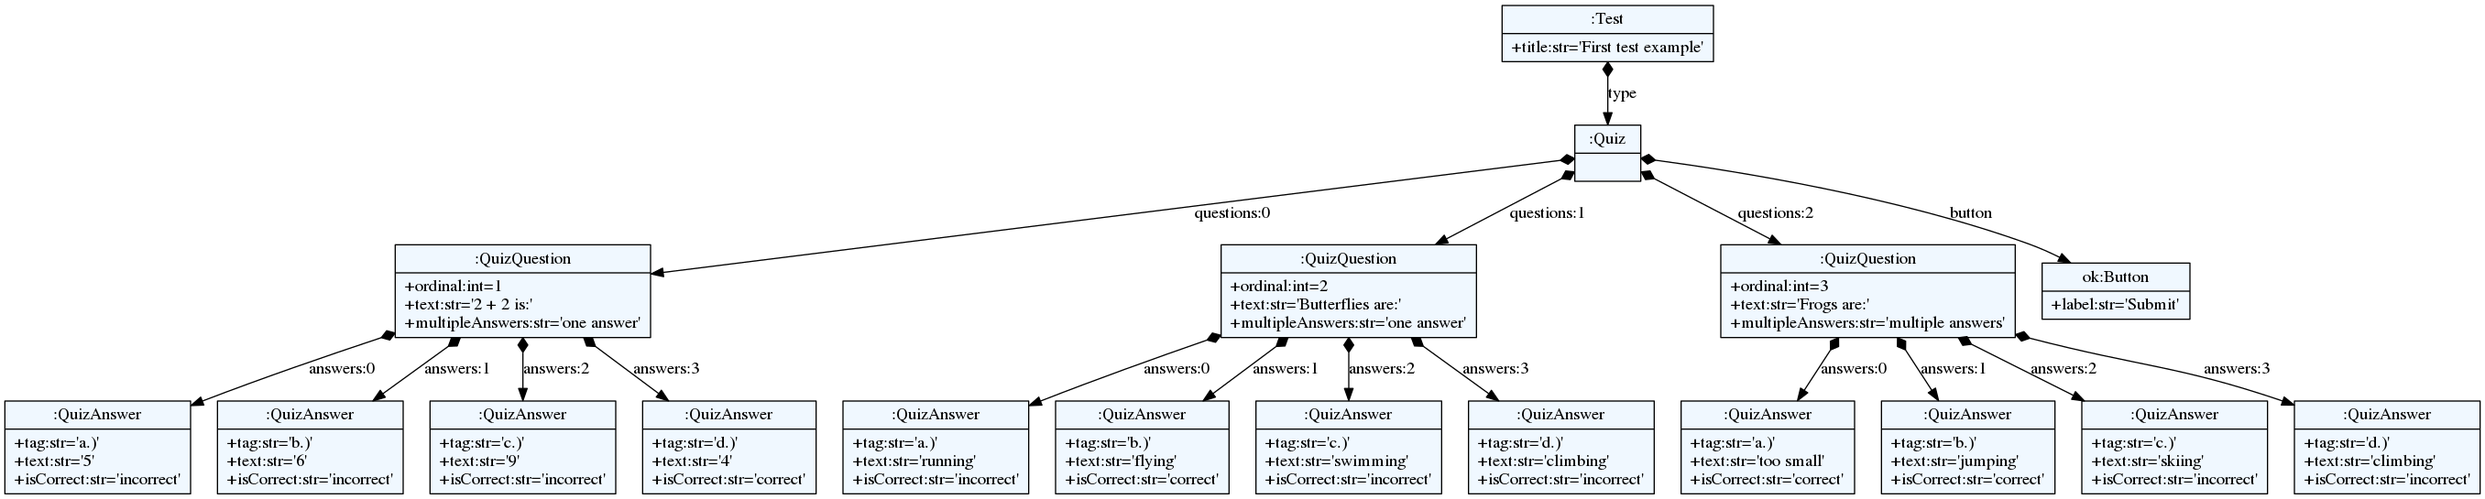
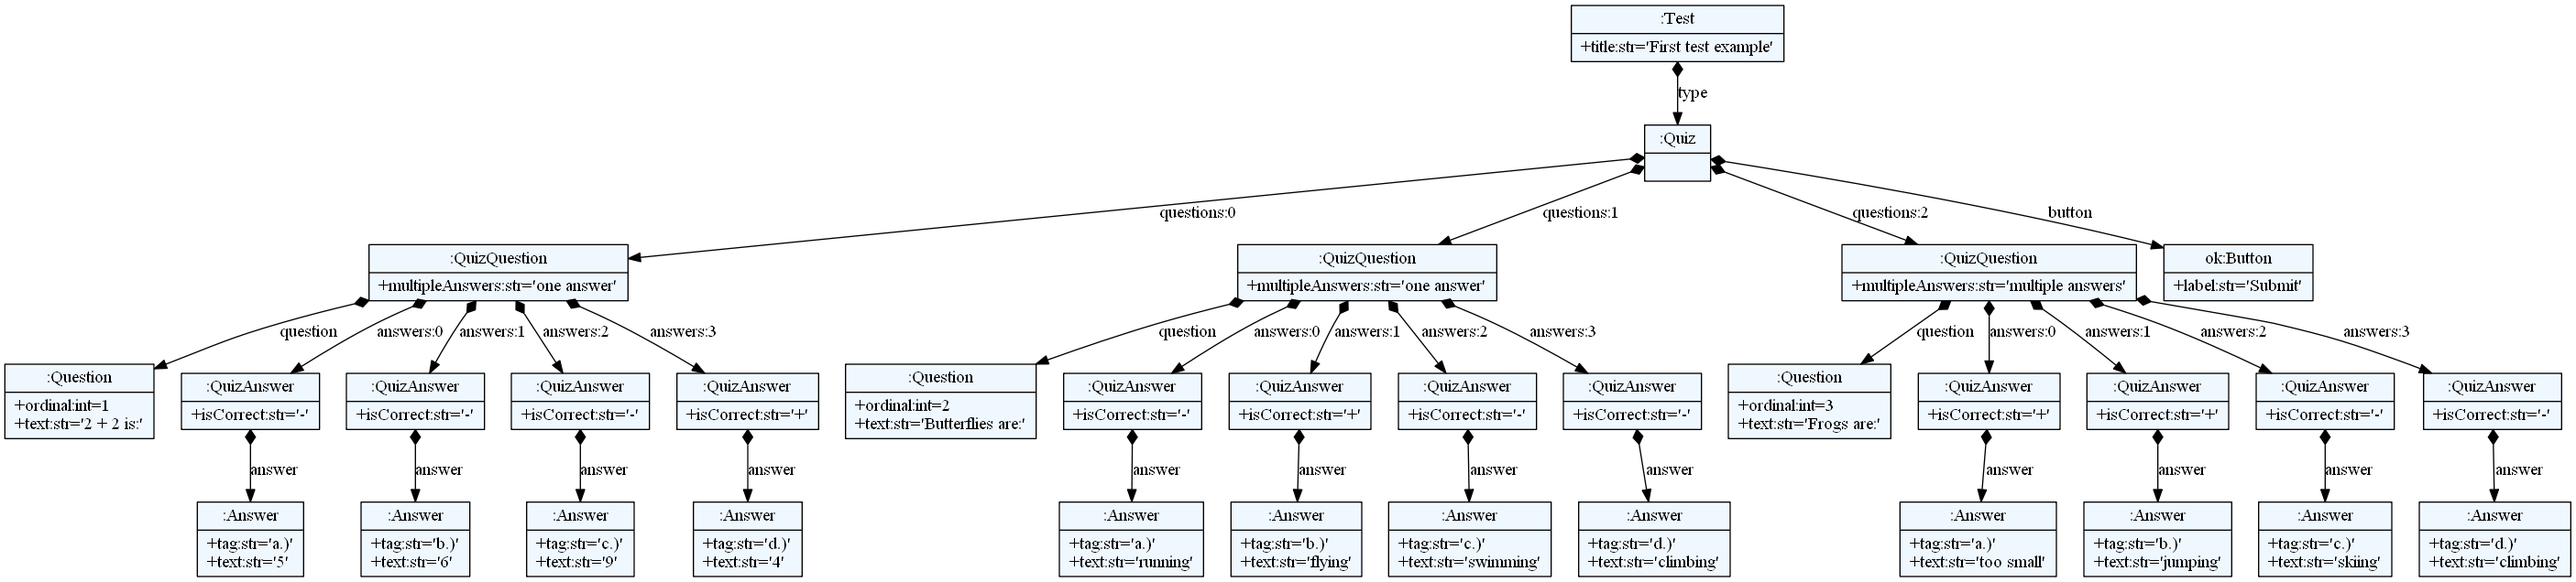
Adapted templates to grammar corrections

diff --git a/output/survey.html b/output/survey.html
@@ -13,7 +13,7 @@
     <script src="https://maxcdn.bootstrapcdn.com/bootstrap/3.3.7/js/bootstrap.min.js"></script>
 
     <!-- block can be overwriten in sub templates/files with same sintax -->
-<title>First test survey example</title>
+<title>First test example</title>
   </head>
   <body>
     <nav class="navbar navbar-default">
@@ -30,27 +30,27 @@
     </nav>
     <div class="container">
       <div class="jumbotron">
-  <h1>First test survey example</h1>
+  <h1>First test example</h1>
       </div>
     </div>
     <a href="https://github.com/igen-ftn/quizgen" target="_blank"><img style="position: absolute; top: 0; right: 0; border: 0;" src="https://camo.githubusercontent.com/365986a132ccd6a44c23a9169022c0b5c890c387/68747470733a2f2f73332e616d617a6f6e6177732e636f6d2f6769746875622f726962626f6e732f666f726b6d655f72696768745f7265645f6161303030302e706e67" alt="Fork me on GitHub" data-canonical-src="https://s3.amazonaws.com/github/ribbons/forkme_right_red_aa0000.png"></a>
     <!-- Inside the block body is where the views will appears -->
     <div class="container">
-<!--h2>First test survey example</h2-->
+<!--h2>First test example</h2-->
 <form>
           <fieldset><legend>Question 1</legend>
               <dl><dt>2 + 2 is: <br/>
-                  <input type="text" name="guestion.answer" value="">
+                  <input type="text" name="2 + 2 is:" value="">
               </dt></dl>
           </fieldset>
-          <fieldset><legend>Question 1</legend>
+          <fieldset><legend>Question 2</legend>
               <dl><dt>Butterflies are: <br/>
-                  <input type="text" name="guestion.answer" value="">
+                  <input type="text" name="Butterflies are:" value="">
               </dt></dl>
           </fieldset>
-          <fieldset><legend>Question 1</legend>
+          <fieldset><legend>Question 3</legend>
               <dl><dt>Frogs are: <br/>
-                  <input type="text" name="guestion.answer" value="">
+                  <input type="text" name="Frogs are:" value="">
               </dt></dl>
           </fieldset>
     <input type="Submit" value="Submit">

diff --git a/generation/templates/test_template.html b/generation/templates/test_template.html
@@ -13,15 +13,15 @@
 <form>
     {% for question in page.type.questions %}
         {% if question.multipleAnswers is defined %}
-            <fieldset><legend>Question {{question.ordinal}}</legend>
-                <dl><dt>{{question.text}} <br/>
+            <fieldset><legend>Question {{question.question.ordinal}}</legend>
+                <dl><dt>{{question.question.text}} <br/>
                     {% if question.multipleAnswers == 'one answer' %}
                         {% for answer in question.answers %}
-                            <dd><input type="radio" name="{{question.text}}" value="{{answer.text}}"> {{answer.text}}</dd>
+                            <dd><input type="radio" name="{{question.question.text}}" value="{{answer.answer.text}}"> {{answer.answer.text}}</dd>
                         {% endfor %}
                     {% else %}
                         {% for answer in question.answers %}
-                            <dd><input type="checkbox" name="{{question.text}}" value="{{answer.text}}"> {{answer.text}}</dd>
+                            <dd><input type="checkbox" name="{{question.question.text}}" value="{{answer.answer.text}}"> {{answer.answer.text}}</dd>
                         {% endfor %}
                     {% endif %}
                 </dt></dl>

diff --git a/generation/templates/survey_template.html b/generation/templates/survey_template.html
@@ -12,9 +12,9 @@
 <!--h2>{{page.title}}</h2-->
 <form>
     {% for question in page.type.questions %}
-          <fieldset><legend>Question {{question.ordinal}}</legend>
-              <dl><dt>{{question.text}} <br/>
-                  <input type="text" name="guestion.answer" value="">
+          <fieldset><legend>Question {{question.question.ordinal}}</legend>
+              <dl><dt>{{question.question.text}} <br/>
+                  <input type="text" name="{{question.question.text}}" value="">
               </dt></dl>
           </fieldset>
     {% endfor %}
